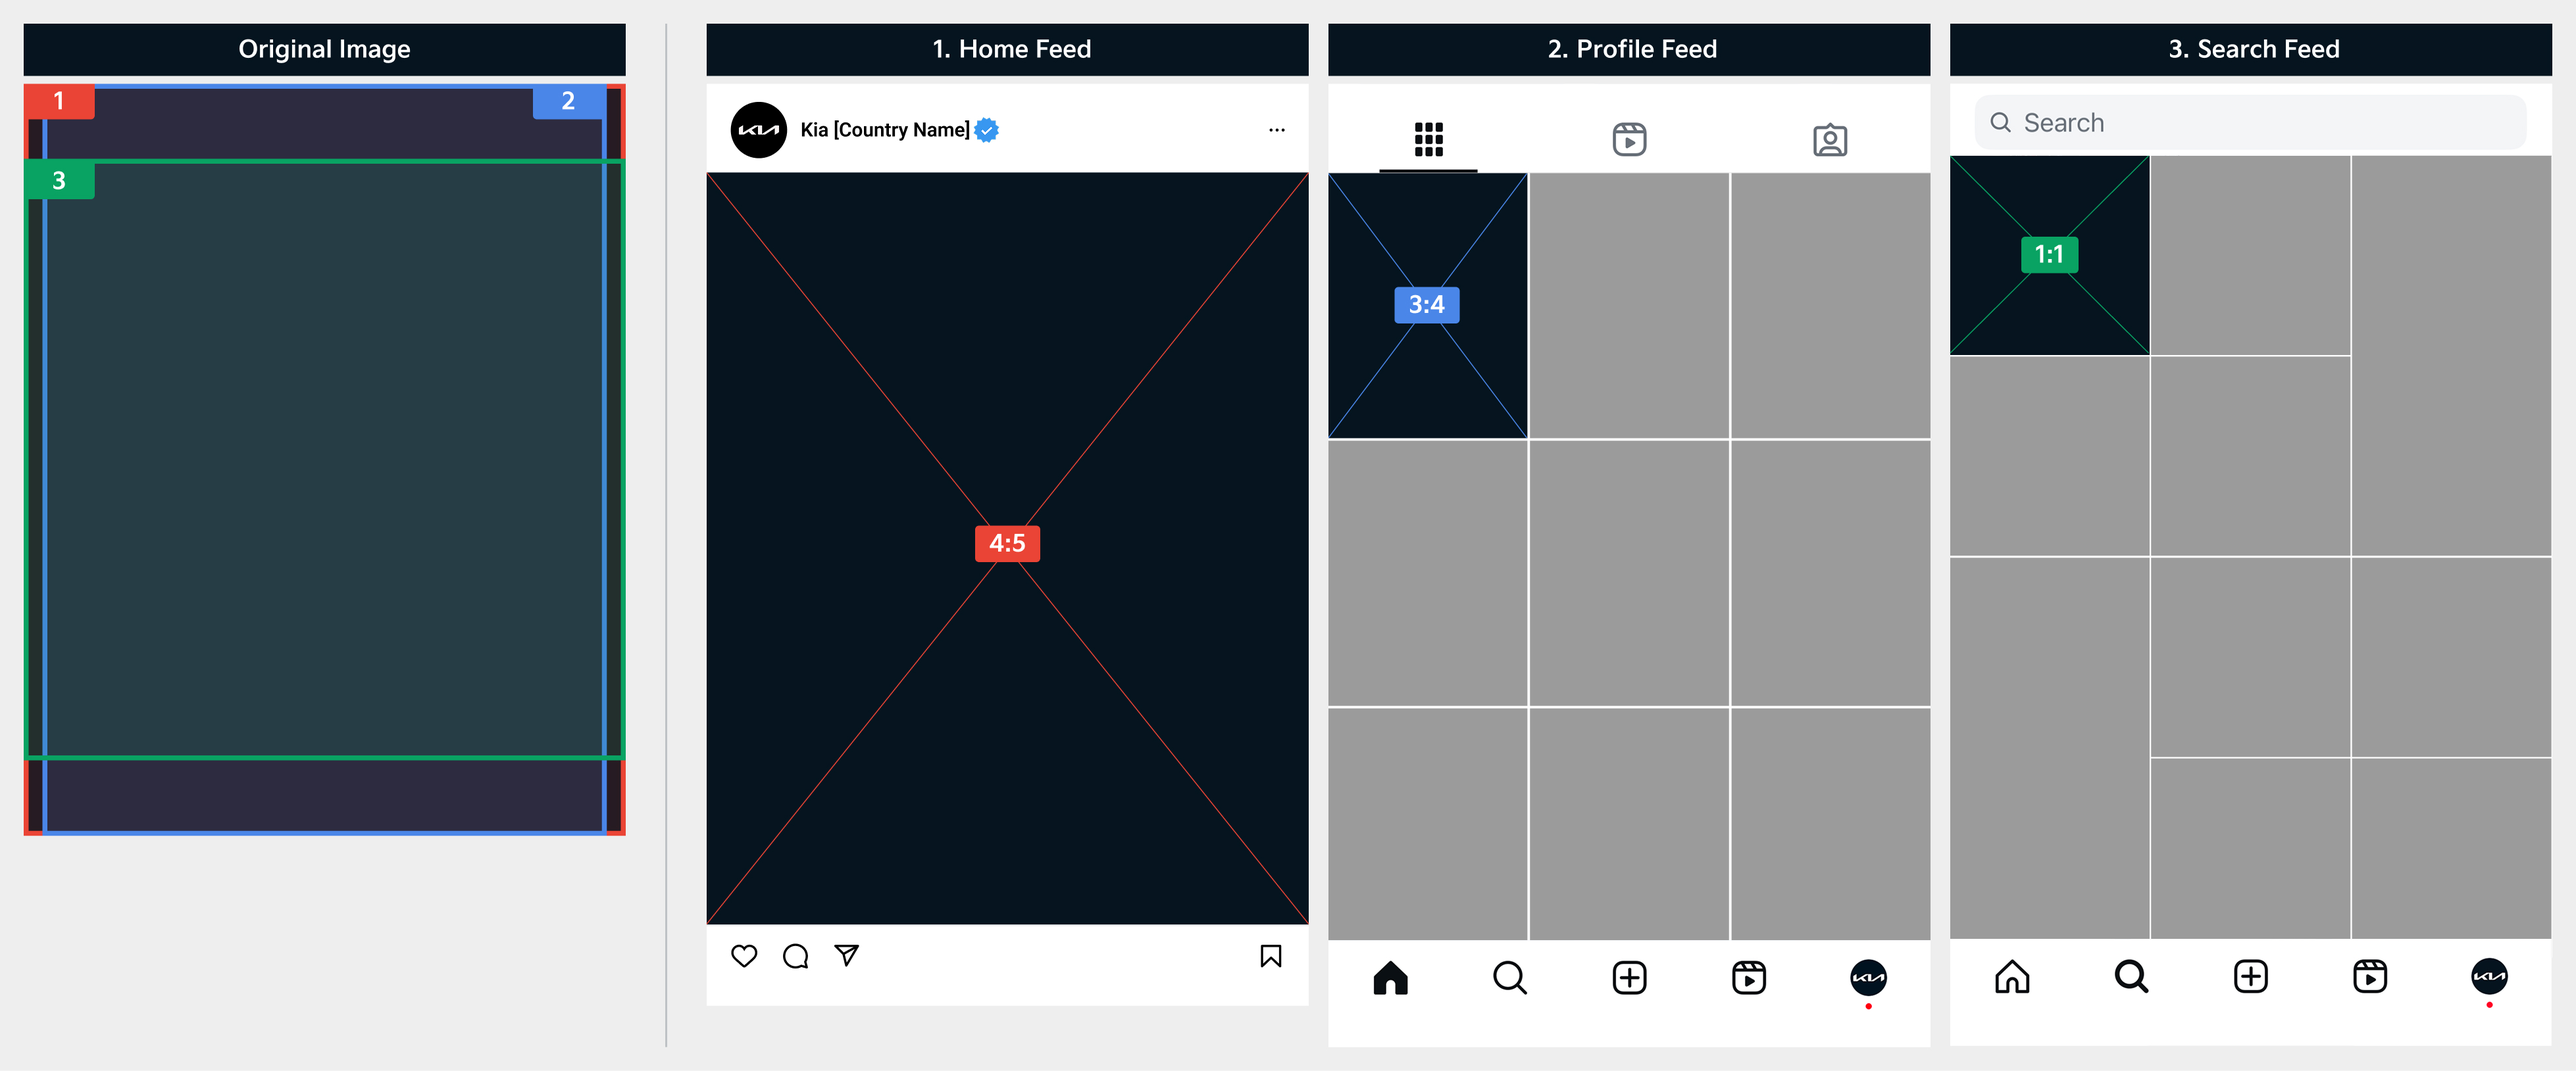
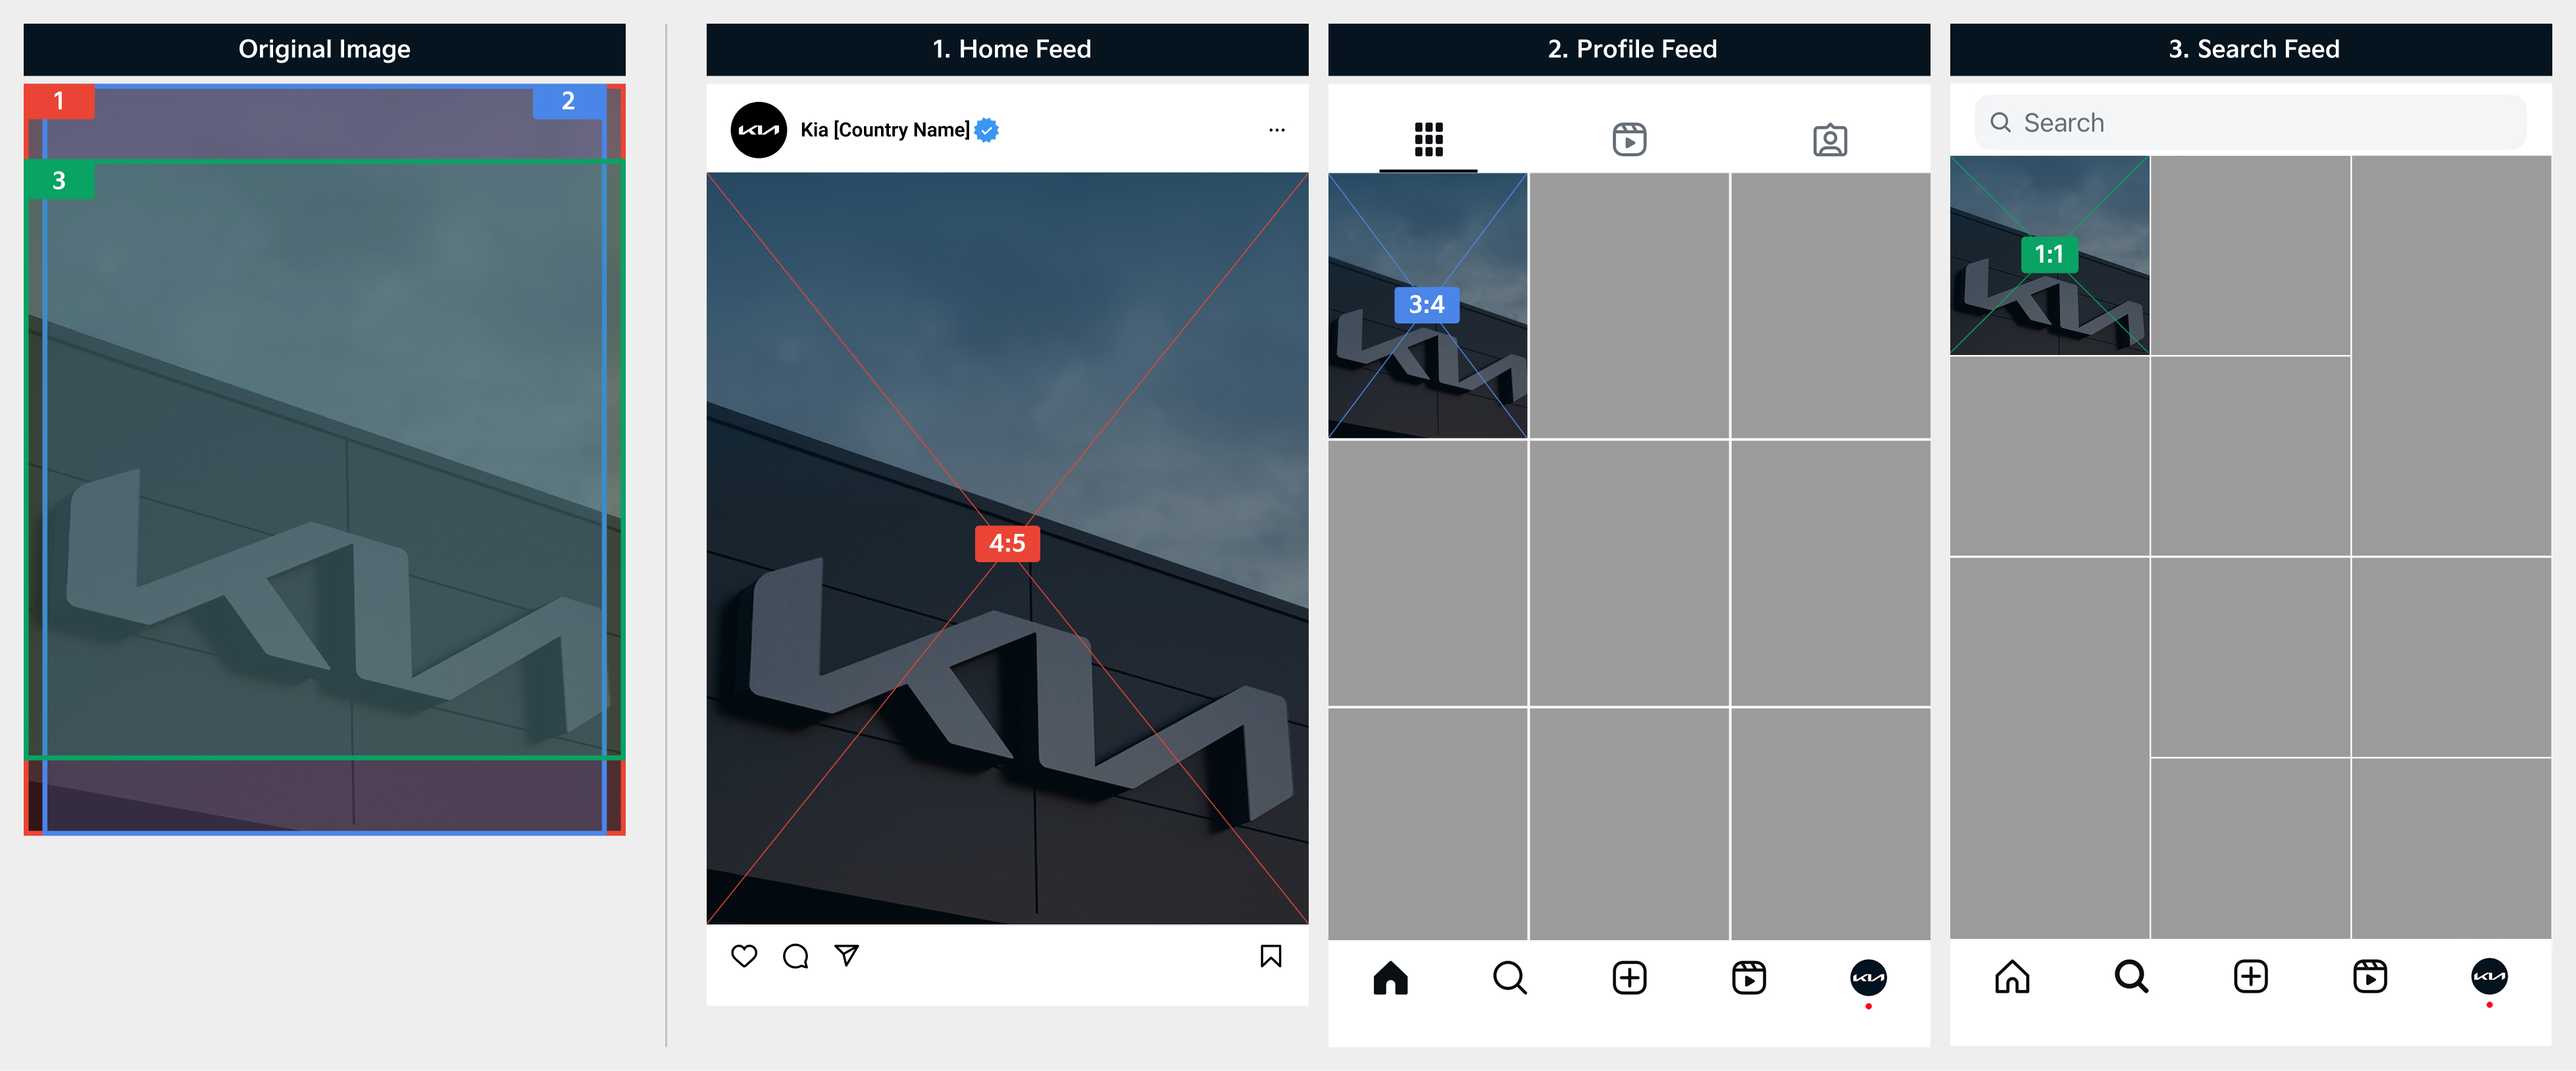
GITBOOK-51: No subject

Changed region(s): [[0.0, 0.0614, 0.5921, 0.8901], [0.7479, 0.1228, 0.8414, 0.3376]]

diff --git a/guide/production-guidelines/instagram/video-thumbnail.md b/guide/production-guidelines/instagram/video-thumbnail.md
@@ -36,11 +36,15 @@ An original image (9:16) is shown in a 5:8 ratio in the Home feed while it is di
 
 <figure><img src="../../../.gitbook/assets/IG-video thumb-3;4.jpg" alt=""><figcaption></figcaption></figure>
 
+<figure><img src="../../../.gitbook/assets/ex-IG-video thumb-3;4.jpg" alt=""><figcaption></figcaption></figure>
+
 #### In case you are considering exposure in Search feed
 
 An original image (9:16) is exposed in a 1:1 or 1:2 aspect ratio in the Profile feed.
 
 <figure><img src="../../../.gitbook/assets/1;2.jpg" alt=""><figcaption></figcaption></figure>
+
+<figure><img src="../../../.gitbook/assets/ex-IG-video thumb-1;1-1;2.jpg" alt=""><figcaption></figcaption></figure>
 
 {% hint style="info" %}
 You can place text in all areas except for the margin and text is recommended to be left- or center-aligned.

diff --git a/guide/production-guidelines/instagram/image.md b/guide/production-guidelines/instagram/image.md
@@ -34,11 +34,11 @@ An original image (4:5) is exposed in a 1:1 aspect ratio in the Search feed.
 
 <figure><img src="../../../.gitbook/assets/IG-image-1;1.jpg" alt=""><figcaption></figcaption></figure>
 
+<figure><img src="../../../.gitbook/assets/ex-IG-image-1;1.jpg" alt=""><figcaption></figcaption></figure>
+
 {% hint style="info" %}
 You can place text in all areas except for the margin and text is recommended to be left- or center-aligned.
 {% endhint %}
-
-<figure><img src="../../../.gitbook/assets/ex-IG-image-1;1.jpg" alt=""><figcaption></figcaption></figure>
 
 ***
 
